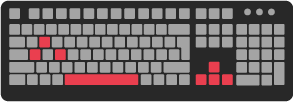
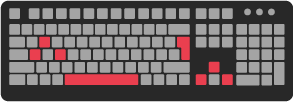
Interaction done but there are some errors with the flashing anim

Changed region(s): [[0.5836, 0.3529, 0.6758, 0.5882], [0.7065, 0.7059, 0.7679, 0.8529]]

diff --git a/scripts/index.js b/scripts/index.js
@@ -140,7 +140,7 @@ const modalContent = document.querySelector('.modal__content');
 const modalTitle = document.querySelector('.modal__text--title');
 const closeButton = document.querySelector('.image__close');
 
-let options = ['right', 'left', 'jump'];
+let options = ['right', 'left', 'jump', 'shoot'];
 
 function random(min, max) { return Math.floor(Math.random() * (max - min + 1) + min); }
 
@@ -148,6 +148,7 @@ function random(min, max) { return Math.floor(Math.random() * (max - min + 1) + 
 function handleOpenModal() {
     document.body.style.overflow = 'hidden';
     modal.style.display = 'block';
+    modalTextAnim();
     setTimeout(handleModalAppear, 15);
 
 }
@@ -155,15 +156,17 @@ function handleOpenModal() {
 function handleModalAppear() {
     modal.style.opacity = 1;
     modalContent.style.transform = 'translate(0px, 0px)';
-    modalTextAnim();
     setTimeout(startGame, 500);
 
 }
 
 function startGame() {
-    let index = random(0, 2);
-    posModal(options[index]);
-    current = options[index];
+    let index = random(0, 3);
+    if (finish == true) {
+        posModal(options[index]);
+        current = options[index];
+    }
+
 }
 
 
@@ -191,7 +194,8 @@ function handleCloseModal() {
 }
 
 function modalTextAnim() {
-    refreshIntervalId = setInterval(changeOpacity, 800);
+    //refreshIntervalId = setInterval(changeOpacity, 800);
+    //refreshIntervalId1 = setInterval(changeOpacityAnim, 200);
 }
 
 function changeOpacity() {
@@ -224,18 +228,27 @@ function changeOpacityAnim() {
 
 document.addEventListener('keydown', function(event) {
     if (event.keyCode == 37 || event.keyCode == 65) {
-        if (current == 'left') {
+        if (current === 'left') {
+            console.log("L")
             handleLeave();
             setTimeout(startGame, 300);
         }
     } else if (event.keyCode == 39 || event.keyCode == 68) {
-        if (current == 'right') {
+        if (current === 'right') {
+            console.log("R")
             handleLeave();
             setTimeout(startGame, 300);
         }
     } else if (event.keyCode == 32 || event.keyCode == 87 || event.keyCode == 38) {
-        if (current == 'jump') {
+        if (current === 'jump') {
+            console.log("J")
             handleLeave();
+            setTimeout(startGame, 300);
+        }
+    } else if (event.keyCode == 13) {
+        if (current === 'shoot') {
+            console.log("S")
+            shootLeave();
             setTimeout(startGame, 300);
         }
     }
@@ -267,8 +280,6 @@ function handleLeave() {
 }
 
 
-
-
 let posFx;
 let posFy;
 let posIx;
@@ -277,8 +288,6 @@ const animText = document.querySelector('.modal__text--anim');
 
 function posModal(pos) {
 
-    clearInterval(refreshIntervalId1);
-    refreshIntervalId1 = setInterval(changeOpacityAnim, 200);
     finish = false;
     switch (pos) {
         case 'right':
@@ -315,10 +324,34 @@ function posModal(pos) {
             break;
 
         case 'shoot':
-            secondModal.style.transform = 'none';
-            secondModal.style.transform = 'translate(0px, 0px)';
+            posIx = 0;
+            posIy = 0;
+            posFx = 0;
+            posFy = 0;
+            animText.innerHTML = 'Shoot!';
+            shoot();
             break;
     }
 
+}
 
+function shoot() {
+    secondModal.style.opacity = '0';
+    secondModal.style.transition = 'transform .001s ease';
+    secondModal.style.transform = `translate(${posIx}px, ${posIy}px)`;
+    setTimeout(appearShoot, 10);
+}
+
+function appearShoot() {
+    secondModal.style.transition = 'opacity 0.4s ease-in-out';
+    secondModal.style.opacity = '1';
+}
+
+function shootLeave() {
+    secondModal.style.opacity = '0';
+    setTimeout(
+        () => {
+            finish = true;
+        }, 100
+    );
 }

diff --git a/index.html b/index.html
@@ -23,7 +23,7 @@
                     <img src="./images/close.png" class="image__close">
                 </article>
                 <article class="modal__content modal__content--two">
-                    <p class="modal__text--anim">Move right!</p>
+                    <p class="modal__text--anim"></p>
 
                 </article>
 
